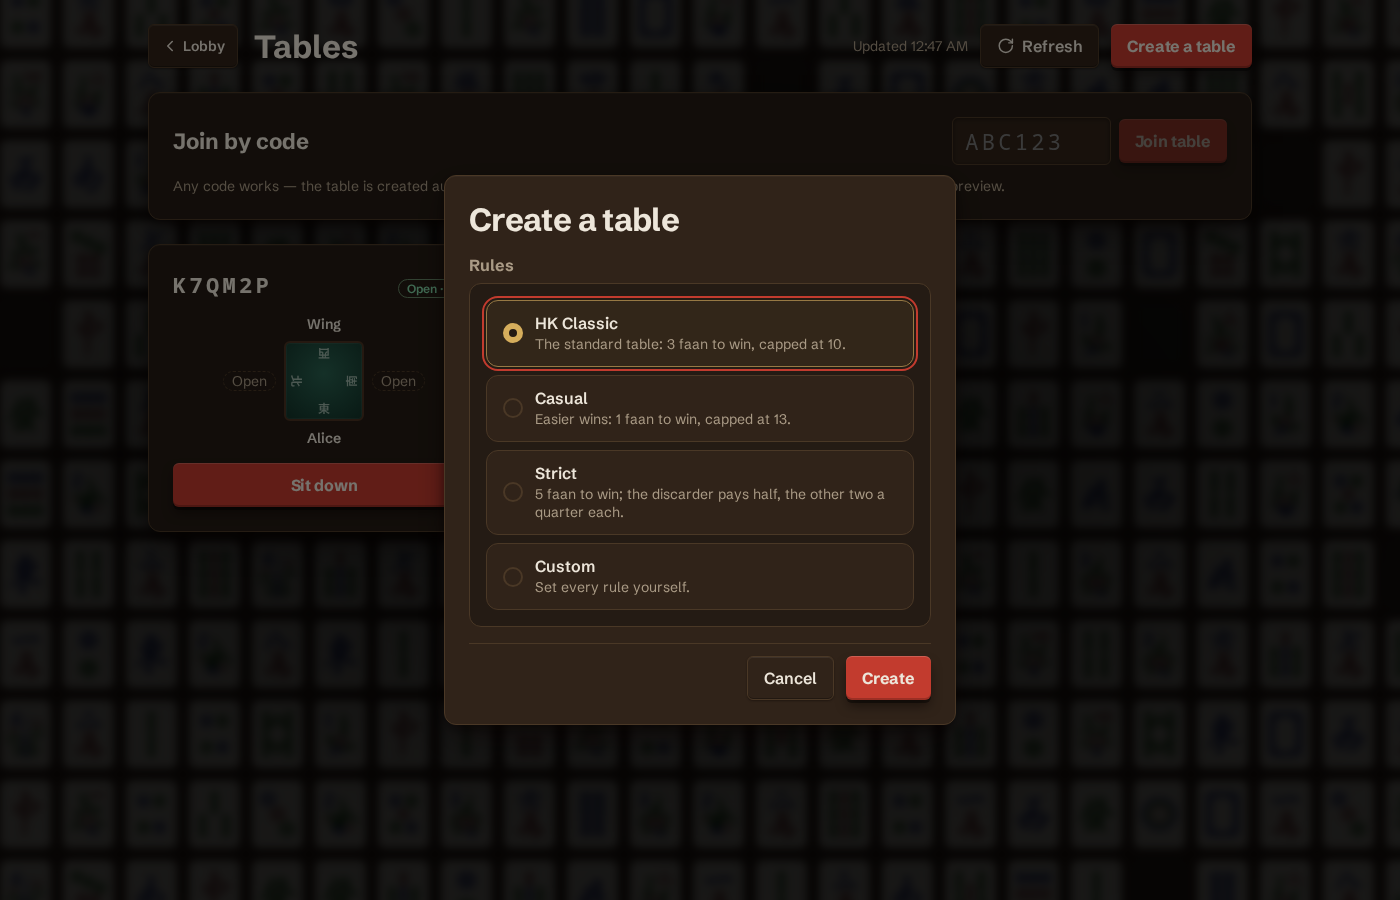
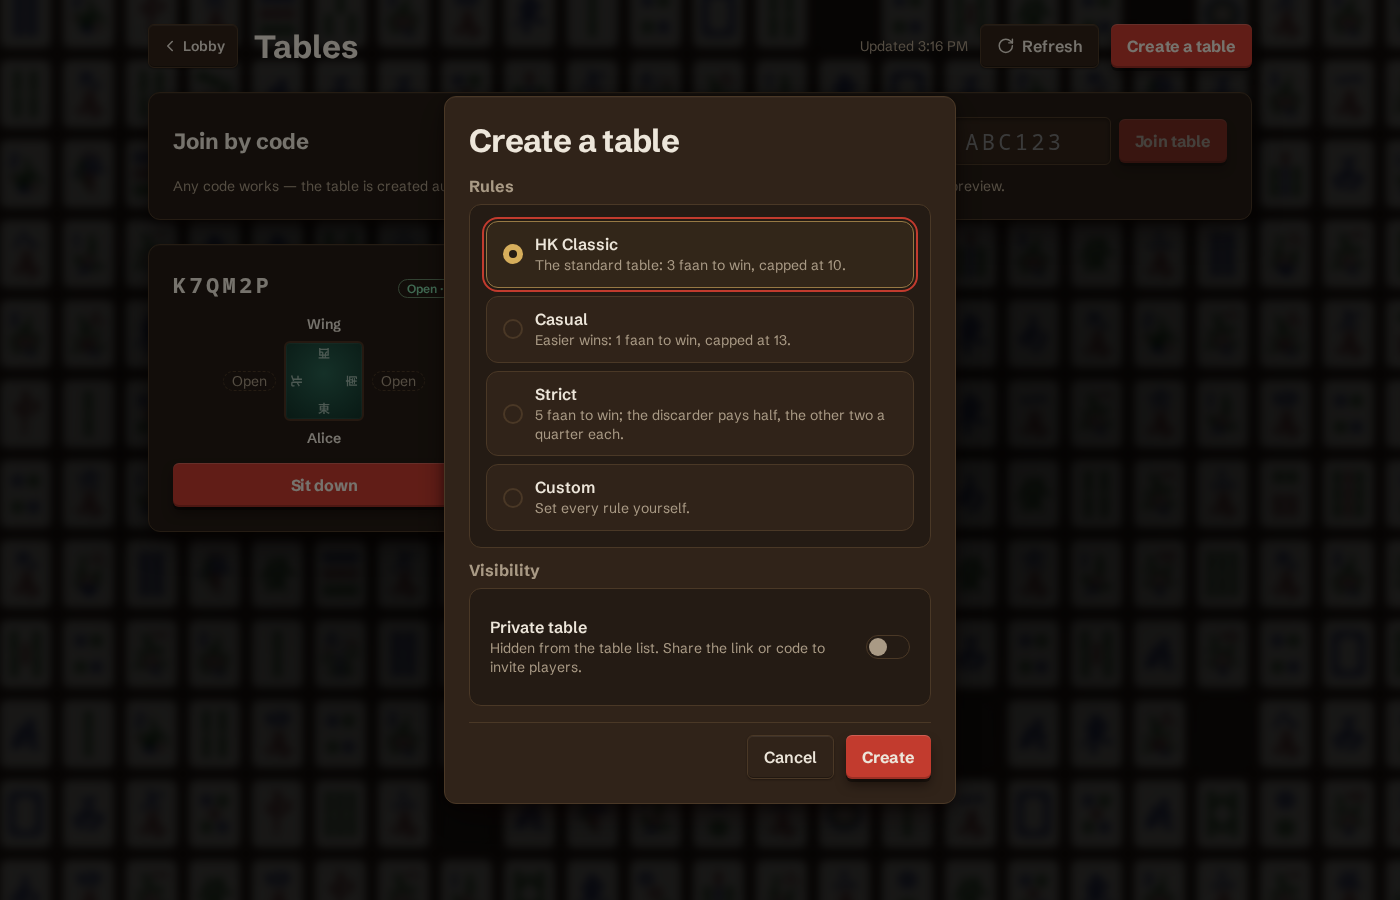
feat(web): private table switch in create-table dialog

Changed region(s): [[0.3071, 0.0933, 0.7064, 0.9022], [0.6143, 0.0311, 0.6757, 0.0622], [0.645, 0.2489, 0.6757, 0.28]]

diff --git a/web/src/lib/ui/CreateTableDialog.svelte b/web/src/lib/ui/CreateTableDialog.svelte
@@ -18,6 +18,7 @@
 	import PanelHeader from './PanelHeader.svelte';
 	import FormGroup from './FormGroup.svelte';
 	import OptionRow from './OptionRow.svelte';
+	import SwitchRow from './SwitchRow.svelte';
 	import SegmentedControl from './SegmentedControl.svelte';
 	import RulesEditor, { type OverrideRow, type RulesTab } from './RulesEditor.svelte';
 	import { loadCreateTableSetup, saveCreateTableSetup } from './settings-storage';
@@ -47,6 +48,7 @@
 			? draftFrom(saved.customBase, saved.custom)
 			: draftFrom(DEFAULT_PRESET_ID, RULESET_PRESET_RULES[DEFAULT_PRESET_ID])
 	);
+	let isPrivate = $state(saved?.private ?? false);
 	let view = $state<'presets' | 'custom'>('presets');
 	let activeTab = $state<RulesTab>('scoring');
 	// the draft a "Start from"/Reset just replaced, offered back until the next edit
@@ -110,11 +112,11 @@
 		error = null;
 		const custom = withInertDefaults($state.snapshot(customRules) as RuleSet);
 		const body: CreateTableRequest = isCustom
-			? { ruleset: CUSTOM_PRESET_ID, rules: custom }
-			: { ruleset: presetId };
+			? { ruleset: CUSTOM_PRESET_ID, rules: custom, private: isPrivate }
+			: { ruleset: presetId, private: isPrivate };
 		try {
 			const response = await createTable(body);
-			saveCreateTableSetup({ presetId, customBase: draft.base, custom });
+			saveCreateTableSetup({ presetId, customBase: draft.base, custom, private: isPrivate });
 			onCreated(response.table_id);
 		} catch {
 			error = m.createTableDialog_createError();
@@ -169,6 +171,14 @@
 						><SlidersHorizontal size={16} />{m.createTableDialog_editCustomButton()}</button
 					>
 				{/if}
+				<FormGroup legend={m.createTableDialog_visibilityLegend()}>
+					<SwitchRow
+						label={m.createTableDialog_privateLabel()}
+						description={m.createTableDialog_privateDesc()}
+						checked={isPrivate}
+						onChange={(checked) => (isPrivate = checked)}
+					/>
+				</FormGroup>
 			</div>
 		{:else}
 			<header class="custom-header">

diff --git a/web/src/lib/ui/settings-storage.ts b/web/src/lib/ui/settings-storage.ts
@@ -338,6 +338,7 @@ export interface CreateTableSetup {
 	presetId: string;
 	customBase: string;
 	custom: RuleSet;
+	private: boolean;
 }
 
 export function loadCreateTableSetup(): CreateTableSetup | null {
@@ -346,11 +347,16 @@ export function loadCreateTableSetup(): CreateTableSetup | null {
 	try {
 		const v: unknown = JSON.parse(raw);
 		if (typeof v !== 'object' || v === null) return null;
-		const { presetId, customBase, custom } = v as Record<string, unknown>;
+		const { presetId, customBase, custom, private: isPrivate } = v as Record<string, unknown>;
 		const known = (id: unknown): id is string =>
 			typeof id === 'string' && id in RULESET_PRESET_RULES;
 		if (!(known(presetId) || presetId === CUSTOM_PRESET_ID) || !known(customBase)) return null;
-		return { presetId, customBase, custom: sanitizeRuleSet(custom) };
+		return {
+			presetId,
+			customBase,
+			custom: sanitizeRuleSet(custom),
+			private: isPrivate === true
+		};
 	} catch {
 		return null;
 	}

diff --git a/web/src/lib/ui/settings-storage.spec.ts b/web/src/lib/ui/settings-storage.spec.ts
@@ -255,12 +255,21 @@ describe('settings-storage', () => {
 	describe('createTableSetup', () => {
 		it('round-trips a saved value', () => {
 			const custom = { ...RULESET_PRESET_RULES.hk_strict, faan_overrides: { 平糊: 2 } };
-			saveCreateTableSetup({ presetId: 'custom', customBase: 'hk_strict', custom });
+			saveCreateTableSetup({ presetId: 'custom', customBase: 'hk_strict', custom, private: true });
 			expect(loadCreateTableSetup()).toEqual({
 				presetId: 'custom',
 				customBase: 'hk_strict',
-				custom
+				custom,
+				private: true
 			});
+		});
+
+		it('defaults private to false for a setup saved before the toggle existed', () => {
+			localStorage.setItem(
+				CREATE_TABLE_SETUP_STORAGE_KEY,
+				JSON.stringify({ presetId: 'hk_classic', customBase: 'hk_classic', custom: {} })
+			);
+			expect(loadCreateTableSetup()?.private).toBe(false);
 		});
 
 		it('returns null when nothing has been stored', () => {

diff --git a/web/src/routes/page.e2e.ts b/web/src/routes/page.e2e.ts
@@ -89,6 +89,21 @@ async function captureCreateBody(page: Page): Promise<{ body: Record<string, unk
 	return sent;
 }
 
+test('create table private switch sends private: true', async ({ page }) => {
+	const sent = await captureCreateBody(page);
+	await page.goto('/tables');
+	await page.waitForLoadState('networkidle');
+	await page.getByTestId('tables-header-create-table').click();
+	const dialog = page.getByTestId('create-table-dialog');
+	const toggle = dialog.getByRole('switch', { name: /Private table/ });
+	await expect(toggle).not.toBeChecked();
+	await toggle.click({ force: true });
+	await dialog.getByTestId('create-table-submit').click();
+
+	await expect(page).toHaveURL('/table/CUSTOM1');
+	expect(sent.body).toMatchObject({ ruleset: 'hk_classic', private: true });
+});
+
 async function openCustomRules(page: Page): Promise<Locator> {
 	await page.goto('/tables');
 	await page.waitForLoadState('networkidle');

diff --git a/web/src/lib/ui/CreateTableDialog.spec.ts b/web/src/lib/ui/CreateTableDialog.spec.ts
@@ -41,4 +41,10 @@ describe('CreateTableDialog', () => {
 		expect(body).toContain('Strict');
 		expect(body).toContain('Custom');
 	});
+
+	it('offers a private-table switch, off by default', () => {
+		const { body } = render(CreateTableDialog, { props: { onCreated: noop, onCancel: noop } });
+		expect(body).toContain('Private table');
+		expect(body).toMatch(/role="switch"(?![^>]*checked)[^>]*>/);
+	});
 });

diff --git a/web/src/lib/net/lobby.ts b/web/src/lib/net/lobby.ts
@@ -80,6 +80,8 @@ export interface CreateTableRequest {
 	// practice mode's per-seat difficulty picker: seat 1..3 -> a bot tier (seat 0 is the human
 	// seat, never included). Server-side: app/api_models.py's CreateTableRequest.bot_tiers.
 	bot_tiers?: Record<number, BotTier>;
+	// left out of GET /tables; joinable by link or code only
+	private?: boolean;
 }
 
 export interface CreateTableResponse {

diff --git a/docs/frontend.md b/docs/frontend.md
@@ -818,12 +818,16 @@ views in one dialog:
 - **Inert fields** (`INERT_RULE_FIELDS`: every `RuleSet` field with no server reader, rules.md §10,
   including `multi_win`) are never shown and always posted at their defaults (`withInertDefaults`)
   — a toggle must not promise a rule the engine ignores.
-- **Remembered.** A successful create stores `{presetId, customBase, custom}` under
+- **Remembered.** A successful create stores `{presetId, customBase, custom, private}` under
   `mahjong:createTableSetup:v1`; the next open restores the selection and the custom draft.
   `loadCreateTableSetup` drops an unknown preset id and repairs a stale ruleset field-by-field
   (`sanitizeRuleSet`) instead of discarding it.
 - The custom view has a fixed height (`min(44rem, 100dvh - 2rem)`) so switching tabs never resizes
   it; Cancel/Create stay pinned below the scroll region.
+
+- **Private table** — a "Visibility" switch under the presets (presets view only, applies to
+  custom rules too) posts `private: true`, which keeps the table off `/tables`; invitees use the
+  link or join-by-code. Off by default, remembered with the rest of the setup.
 
 Submitting calls `POST /tables` ([protocol.md §10](protocol.md)) and navigates to
 `/table/<table_id>`. The waiting room shows the resolved preset name (`PretableScreen.svelte`).
